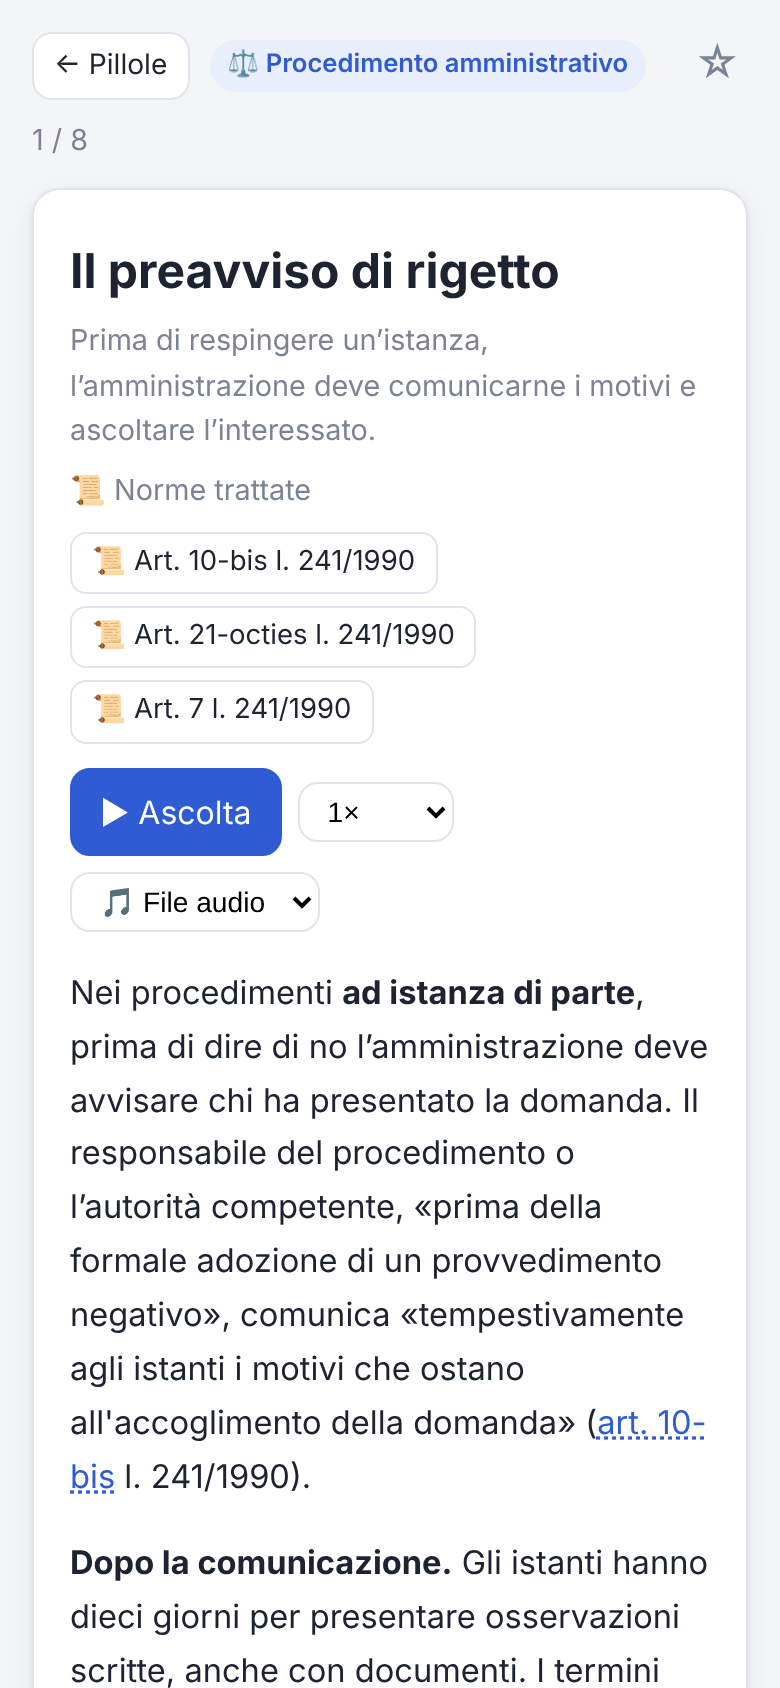
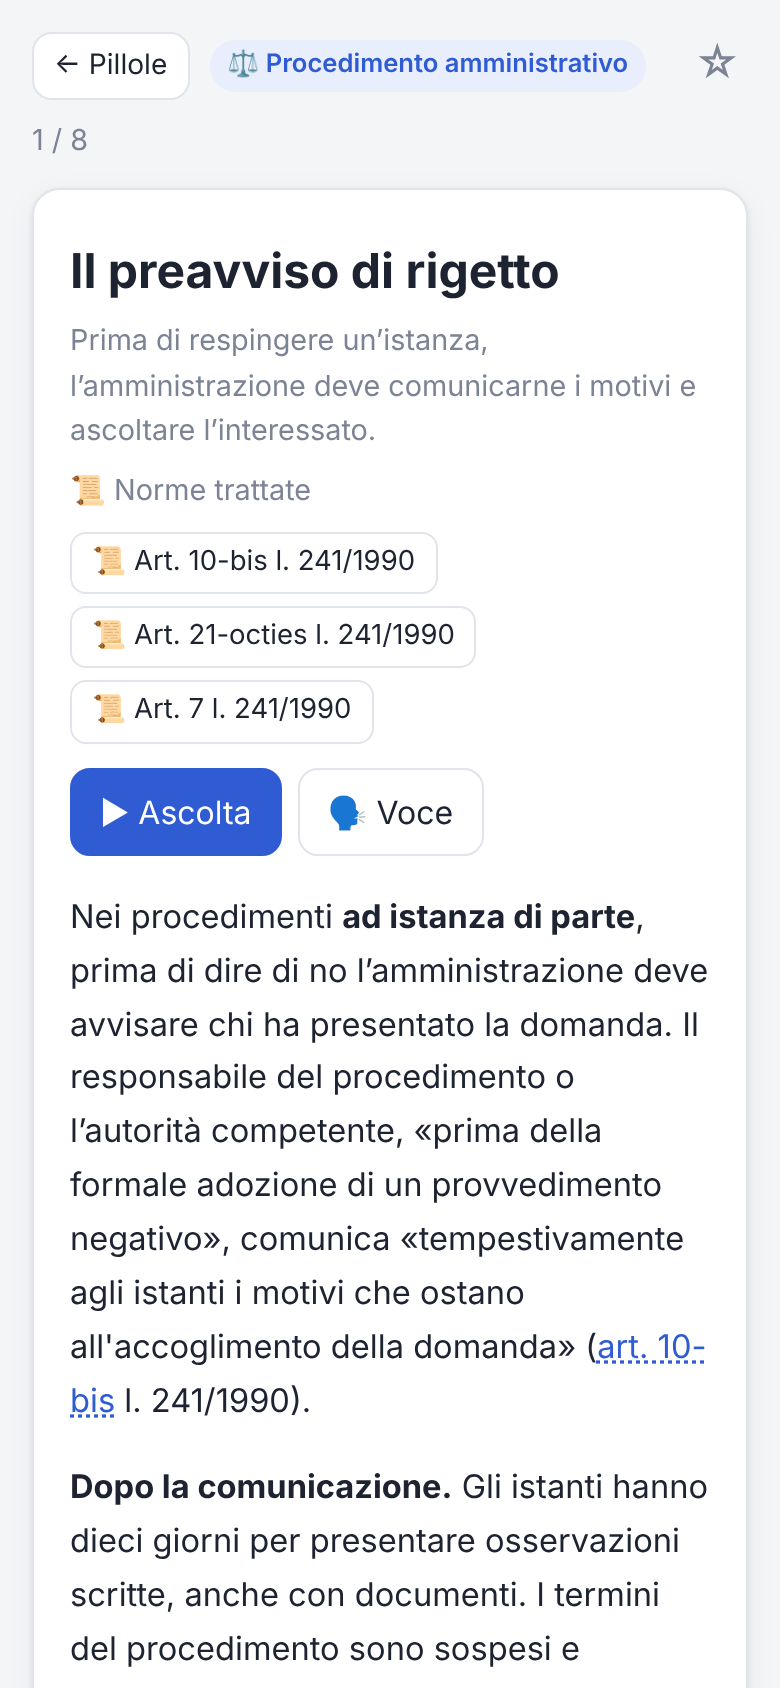
Pillole: voce in una finestra a parte; l'audio continua leggendo le norme
- al posto del riquadro sempre visibile, un pulsante «🗣 Voce» (pagina delle pillole e
  singola pillola) apre la finestra con voce, velocità e prova
- aprendo una norma da una pillola l'ascolto continua: la scheda mostra «⏸ <pillola>» per
  fermarlo; se la sessione passa alla pillola successiva si resta sulla norma, e «← Indietro»
  riporta alla pillola che sta suonando

Claude-Session: https://claude.ai/code/session_01LeeM76ntNkL2VMLBGJ9Dax

Changed region(s): [[0.0923, 0.5237, 0.8923, 1.0], [0.4, 0.4621, 0.5846, 0.4929]]

diff --git a/index.html b/index.html
@@ -218,10 +218,11 @@ details.atto summary{cursor:pointer}
 /* le sezioni stanno in più contenitori: quelli senza nulla di visibile non occupano spazio */
 .wrap:not(:has(> :not(.hidden))){display:none}
 .norma-testo ins,#nn-nota ins{background:var(--ok-soft);color:var(--ok);text-decoration:none;font-weight:600}
-.voce-bar{display:flex;gap:8px;align-items:center;flex-wrap:wrap;padding:12px 14px}
-.voce-bar select{max-width:100%}
-.voce-bar .muted{flex-basis:100%;font-size:.82rem}
-.voce-bar .muted:empty{display:none}
+.voce-modal{max-width:440px}
+.voce-modal .campo{display:grid;gap:5px;margin:14px 0;font-size:.9rem;color:var(--ink2)}
+.voce-modal select{width:100%;font-size:1rem}
+.voce-modal .muted{margin-top:12px;font-size:.84rem}
+.voce-modal .muted:empty{display:none}
 .sessione{border-color:var(--accent)}
 .sess-riga{display:grid;gap:4px;margin-bottom:10px}
 .sess-riga .aree{margin-bottom:0}
@@ -405,14 +406,7 @@ details.atto summary{cursor:pointer}
   <section id="pillole" class="hidden">
     <div class="row" style="margin-bottom:12px">
       <div><h1>Pillole normative</h1><div class="muted" id="p-sub"></div></div>
-      <span class="spacer"></span><button class="btn primary" id="p-sess-btn">🎧 Sessione di ascolto</button>
-    </div>
-    <div class="card voce-bar">
-      <b>🗣 Voce</b>
-      <select class="btn small" id="p-voce" title="Voce"></select>
-      <select class="btn small" id="p-vel" title="Velocità"><option value="0.85">0,85×</option><option value="1" selected>1×</option><option value="1.15">1,15×</option><option value="1.3">1,3×</option></select>
-      <button class="btn small" id="p-prova">▶ Prova</button>
-      <div class="muted" id="p-voce-nota"></div>
+      <span class="spacer"></span><button class="btn" id="p-voce-btn">🗣 Voce</button><button class="btn primary" id="p-sess-btn">🎧 Sessione di ascolto</button>
     </div>
     <div class="card hidden" id="p-riepilogo"></div>
     <div class="card hidden sessione" id="p-sess">
@@ -441,8 +435,7 @@ details.atto summary{cursor:pointer}
       <div class="player">
         <button class="btn primary" id="pp-play">▶ Ascolta</button>
         <button class="btn hidden" id="pp-cast" title="Trasmetti l’audio a un altoparlante Google Nest o Chromecast">📡 Trasmetti al Nest</button>
-        <select class="btn small" id="pp-vel" title="Velocità"><option value="0.85">0,85×</option><option value="1" selected>1×</option><option value="1.15">1,15×</option><option value="1.3">1,3×</option></select>
-        <select class="btn small" id="pp-voce" title="Voce"></select>
+        <button class="btn" id="pp-voce-btn">🗣 Voce</button>
         <span class="stato" id="pp-stato"></span>
       </div>
       <audio id="pp-audio" preload="none"></audio>
@@ -465,7 +458,7 @@ details.atto summary{cursor:pointer}
   </section>
 
   <section id="norma" class="hidden">
-    <div class="topbar"><button class="btn small" id="nn-indietro">← Indietro</button><span class="tag" id="nn-sigla"></span></div>
+    <div class="topbar"><button class="btn small" id="nn-indietro">← Indietro</button><span class="tag" id="nn-sigla"></span><span class="spacer"></span><button class="btn small hidden" id="nn-audio" title="Ferma l’ascolto">⏸ In ascolto</button></div>
     <div class="card">
       <h1 id="nn-titolo" style="margin-bottom:4px"></h1>
       <div class="muted" id="nn-fonte" style="margin-bottom:12px"></div>
@@ -484,6 +477,14 @@ details.atto summary{cursor:pointer}
   <button id="tab-pillole" data-tab="pillole"><span>🎧</span>Pillole</button>
   <button id="tab-norme" data-tab="norme"><span>📜</span>Norme</button>
 </nav>
+
+<div class="overlay hidden" id="voce-ov"><div class="modal voce-modal">
+  <div class="row"><b>🗣 Voce di lettura</b><span class="spacer"></span><button class="btn small" id="voce-chiudi">Chiudi</button></div>
+  <label class="campo">Voce<select class="btn" id="v-voce"></select></label>
+  <label class="campo">Velocità<select class="btn" id="v-vel"><option value="0.85">0,85×</option><option value="1" selected>1×</option><option value="1.15">1,15×</option><option value="1.3">1,3×</option></select></label>
+  <button class="btn primary" id="v-prova">▶ Prova</button>
+  <div class="muted" id="v-nota"></div>
+</div></div>
 
 <div class="overlay hidden" id="norma-ov"><div class="modal">
   <div class="row"><b id="norma-titolo"></b><span class="spacer"></span><button class="btn small" id="norma-chiudi">Chiudi</button></div>
@@ -1072,7 +1073,7 @@ document.addEventListener("click", e => {
   if (!c) return;
   e.preventDefault(); e.stopPropagation();
   const inPillola = !$("pillola").classList.contains("hidden");
-  if (inPillola && typeof apriScheda === "function" && NI[c.dataset.norma]) { const i = PL.i; apriScheda(c.dataset.norma, () => apriPillola(i)); }
+  if (inPillola && typeof apriScheda === "function" && NI[c.dataset.norma]) apriScheda(c.dataset.norma, tornaAllaPillola);
   else apriNorma(c.dataset.norma);
 }, true);
 function apriNorma(id) {
@@ -1193,8 +1194,8 @@ $("s-end").onclick = () => consegna(true);
 
 document.addEventListener("keydown", e => {
   if ((e.key === "Enter" || e.key === " ") && e.target.classList && e.target.classList.contains("cit")) { e.preventDefault(); apriNorma(e.target.dataset.norma); return; }
-  if (!$("norma-ov").classList.contains("hidden") || !$("zoom-ov").classList.contains("hidden")) {
-    if (e.key === "Escape") { $("norma-ov").classList.add("hidden"); $("zoom-ov").classList.add("hidden"); }
+  if (!$("norma-ov").classList.contains("hidden") || !$("zoom-ov").classList.contains("hidden") || !$("voce-ov").classList.contains("hidden")) {
+    if (e.key === "Escape") { $("norma-ov").classList.add("hidden"); $("zoom-ov").classList.add("hidden"); $("voce-chiudi").click(); }
     return;
   }
   if (!S || $("quiz").classList.contains("hidden") || e.ctrlKey || e.metaKey || e.altKey) return;
@@ -1281,7 +1282,6 @@ function renderPillole() {
   const lista = $("p-lista"); lista.innerHTML = "";
   for (const p of PILLOLE.filter(p => !PL.area || (PL.area === "*" ? daApprofondire(p.id) : p.area === PL.area))) lista.appendChild(vocePillola(p));
   $("p-altoparlanti-testo").innerHTML = istruzioniAltoparlanti();
-  renderVoci(); $("p-prova").textContent = "▶ Prova";
   const nAsc = PILLOLE.filter(p => pillolaAscoltata(p.id)).length;
   $("p-sub").textContent = PILLOLE.length + " pillole · " + nAsc + " ascoltate";
   show("pillole");
@@ -1421,7 +1421,7 @@ function renderFonti(p) {
     viste.add(id);
     const b = document.createElement("button");
     b.className = "norma-btn"; b.textContent = etichettaFonte({ tipo: f.tipo, id });
-    b.onclick = () => NI[id] ? apriScheda(id, () => apriPillola(i)) : apriNorma(id);
+    b.onclick = () => NI[id] ? apriScheda(id, tornaAllaPillola) : apriNorma(id);
     norme.appendChild(b);
   }
   $("pp-norme-box").classList.toggle("hidden", !viste.size);
@@ -1434,7 +1434,18 @@ function fermaAscolto() {
   if (window.speechSynthesis) speechSynthesis.cancel();
   voceTel = null;
   $("pp-play").textContent = "▶ Ascolta";
+  aggiornaMini();
 }
+// Leggendo una norma dalla pillola l'ascolto continua: la scheda mostra «⏸ In ascolto» per
+// fermarlo, e «← Indietro» riporta alla pillola che sta suonando.
+const pillolaVisibile = () => !$("pillola").classList.contains("hidden");
+function aggiornaMini() {
+  const b = $("nn-audio"); if (!b) return;
+  const on = typeof PL !== "undefined" && (!$("pp-audio").paused || (!!voceTel && !voceTel.prova));
+  b.classList.toggle("hidden", !on);
+  if (on) b.textContent = "⏸ " + PILLOLE[PL.i].titolo;
+}
+function tornaAllaPillola() { return apriPillola(PL.i, false, true); }
 // ── Voce: quella del telefono (su iPhone le voci italiane di Siri) oppure il file audio ──
 // DB.voce: "" = la migliore voce italiana del telefono, nome di una voce, oppure "file".
 // Su iPhone la stessa voce esiste in più versioni con lo stesso nome («Alice» normale, avanzata,
@@ -1454,31 +1465,40 @@ function voceScelta() { const v = vociIt(); return v.find(x => idVoce(x) === DB.
 // i due menu (pagina delle pillole e singola pillola) mostrano la stessa scelta
 function renderVoci() {
   const v = vociIt();
-  for (const sel of [$("pp-voce"), $("p-voce")]) {
+  for (const sel of [$("v-voce")]) {
     sel.innerHTML = v.map(x => "<option value='" + esc(idVoce(x)) + "'>" + esc(x.name.replace(/\s*\(.*?\)\s*$/, "") + ETICHETTA_Q[qualita(x)]) + "</option>").join("") +
       "<option value='file'>🎵 File audio</option>";
     sel.value = usaFile() ? "file" : idVoce(voceScelta() || {});
   }
-  for (const sel of [$("pp-vel"), $("p-vel")]) sel.value = String(DB.vel || 1);
-  $("p-voce-nota").textContent = !vociIt().length ? "Nessuna voce italiana disponibile in questo browser: si usano i file audio." :
+  $("v-vel").value = String(DB.vel || 1);
+  $("v-nota").textContent = !vociIt().length ? "Nessuna voce italiana disponibile in questo browser: si usano i file audio." :
     vociIt().some(x => qualita(x)) ? "" : "Per una voce più naturale scarica una voce «Avanzata» o «Premium»: Impostazioni → Accessibilità → Lettura e voce → Voci → Italiano. Poi chiudi e riapri l’app.";
   $("pp-cast").classList.toggle("hidden", !usaFile() || $("pp-cast").dataset.ok !== "1");
 }
 function scegliVoce(valore) { const suonava = inRiproduzione(); fermaAscolto(); DB.voce = valore; salva(); renderVoci(); if (suonava && !$("pillola").classList.contains("hidden")) ascolta(); }
 function scegliVelocita(valore) { DB.vel = +valore; salva(); $("pp-audio").playbackRate = DB.vel; renderVoci(); }
 // «▶ Prova»: una frase con la voce scelta (o l'inizio del file audio della pillola del giorno)
+let provaAudio = null;
+function fermaProva() {
+  if (provaAudio) { provaAudio.pause(); provaAudio = null; }
+  if (voceTel && voceTel.prova) { speechSynthesis.cancel(); voceTel = null; }
+  $("v-prova").textContent = "▶ Prova";
+}
 function provaVoce() {
-  if (inRiproduzione()) { fermaAscolto(); $("p-prova").textContent = "▶ Prova"; return; }
+  if (provaAudio || (voceTel && voceTel.prova)) return fermaProva();
+  fermaAscolto();
   const p = PILLOLE[pillolaDelGiorno()];
   if (usaFile()) {
-    const au = $("pp-audio"); au.src = "pillole/audio/" + p.id + ".mp3"; au.playbackRate = DB.vel || 1;
-    au.play().catch(() => {}); setTimeout(() => { if (!au.paused) au.pause(); }, 8000); return;
+    provaAudio = new Audio("pillole/audio/" + p.id + ".mp3"); provaAudio.playbackRate = DB.vel || 1;
+    provaAudio.play().catch(() => {}); $("v-prova").textContent = "■ Ferma";
+    setTimeout(fermaProva, 8000); return;
   }
   const u = new SpeechSynthesisUtterance("Questa è la voce che leggerà le pillole. " + p.parlato.split(". ").slice(0, 2).join(". ") + ".");
   u.lang = "it-IT"; u.rate = DB.vel || 1;
   const v = voceScelta(); if (v) u.voice = v;
-  u.onend = u.onerror = () => { if (voceTel === u) { voceTel = null; $("p-prova").textContent = "▶ Prova"; } };
-  speechSynthesis.cancel(); voceTel = u; $("p-prova").textContent = "■ Ferma";
+  u.prova = true;
+  u.onend = u.onerror = () => { if (voceTel === u) { voceTel = null; $("v-prova").textContent = "▶ Prova"; } };
+  speechSynthesis.cancel(); voceTel = u; $("v-prova").textContent = "■ Ferma";
   speechSynthesis.speak(u);
 }
 function inRiproduzione() { return !$("pp-audio").paused || !!voceTel; }
@@ -1506,6 +1526,7 @@ function parlaTelefono(p) {
 }
 function finePillola() {
   $("pp-play").textContent = "▶ Ascolta";
+  aggiornaMini();
   DB.ascoltate = DB.ascoltate || {}; DB.ascoltate[PILLOLE[PL.i].id] = Date.now(); salva();
   const ss = PL.sess;
   if (!ss) return;
@@ -1528,6 +1549,7 @@ function suona(i) {
     });
   } else parlaTelefono(p);
   $("pp-play").textContent = "⏸ Pausa";
+  if (!$("norma").classList.contains("hidden")) { aggiornaMini(); return Promise.resolve(); }   // si sta leggendo una norma: resta lì
   return apriPillola(i, false, true);
 }
 // ── Sessione di ascolto ──
@@ -1585,6 +1607,7 @@ function avviaSessione() {
 function fineSessione() {
   const ss = PL.sess;
   fermaAscolto();
+  if (!pillolaVisibile() && !$("norma").classList.contains("hidden")) { PL.sess = null; return; }   // non lasciare la norma che si sta leggendo
   renderPillole();   // azzera PL.sess
   const fatte = ss ? ss.fatte : [], box = $("p-riepilogo");
   box.innerHTML = "<h2>" + (fatte.length === ss.coda.length ? "✔ Sessione completata" : "Sessione interrotta") + "</h2><div class='muted'>" +
@@ -1628,19 +1651,24 @@ async function trasmetti() {
 if (HAS_PILLOLE) {
   const au = $("pp-audio");
   au.onended = finePillola;
-  au.onpause = () => { if (!voceTel) $("pp-play").textContent = "▶ Ascolta"; };
-  au.onplay = () => { $("pp-play").textContent = "⏸ Pausa"; };
+  au.onpause = () => { if (!voceTel) $("pp-play").textContent = "▶ Ascolta"; aggiornaMini(); };
+  au.onplay = () => { $("pp-play").textContent = "⏸ Pausa"; aggiornaMini(); };
   au.onerror = () => { if (!au.src || au.dataset.ko === au.src) return; au.dataset.ko = au.src; if ($("pp-play").textContent.startsWith("⏸")) parlaTelefono(PILLOLE[PL.i]); };
   if (au.remote) { au.remote.onconnect = () => { $("pp-stato").textContent = "📡 In trasmissione sull’altoparlante"; }; au.remote.ondisconnect = () => { $("pp-stato").textContent = ""; }; }
   $("pp-play").onclick = ascolta;
   $("pp-cast").onclick = trasmetti;
   $("pp-star").onclick = toggleDaApprofondire;
   $("pp-prova").onclick = provaPillola;
-  $("pp-vel").onchange = () => scegliVelocita($("pp-vel").value);
-  $("p-vel").onchange = () => scegliVelocita($("p-vel").value);
-  $("p-voce").onchange = () => scegliVoce($("p-voce").value);
-  $("p-prova").onclick = provaVoce;
-  $("pp-voce").onchange = () => scegliVoce($("pp-voce").value);
+  // impostazioni della voce: una finestra che si apre dal pulsante «🗣 Voce»
+  const apriVoce = () => { renderVoci(); $("v-prova").textContent = "▶ Prova"; $("voce-ov").classList.remove("hidden"); };
+  const chiudiVoce = () => { fermaProva(); $("voce-ov").classList.add("hidden"); };
+  $("p-voce-btn").onclick = apriVoce; $("pp-voce-btn").onclick = apriVoce;
+  $("voce-chiudi").onclick = chiudiVoce;
+  $("voce-ov").onclick = e => { if (e.target.id === "voce-ov") chiudiVoce(); };
+  $("v-voce").onchange = () => scegliVoce($("v-voce").value);
+  $("v-vel").onchange = () => scegliVelocita($("v-vel").value);
+  $("v-prova").onclick = provaVoce;
+  $("nn-audio").onclick = () => { fermaAscolto(); aggiornaMini(); };
   if (window.speechSynthesis) speechSynthesis.addEventListener("voiceschanged", () => { renderVoci(); });
   $("pp-prec").onclick = () => PL.sess ? vaiInSessione(-1) : apriPillola(PL.i - 1);
   $("pp-succ").onclick = () => PL.sess ? vaiInSessione(1) : apriPillola(PL.i + 1);
@@ -1730,7 +1758,6 @@ async function renderListaNorme() {
 }
 // Scheda di un articolo. ritorno: dove riporta «← Indietro».
 async function apriScheda(id, ritorno) {
-  fermaAscoltoSePillole();
   const base = baseNorma(id), vs = versioni(base);
   if (!vs.length) return apriNorma(id);
   if (ritorno) NN.ritorno = ritorno;
@@ -1750,6 +1777,7 @@ async function apriScheda(id, ritorno) {
   $("nn-quiz-txt").textContent = dd.length + (dd.length === 1 ? " domanda delle prove SNA cita" : " domande delle prove SNA citano") + " questo articolo.";
   if (location.hash !== "#norma=" + base) history.replaceState(null, "", "#norma=" + base);
   show("norma");
+  if (typeof aggiornaMini === "function" && HAS_PILLOLE) aggiornaMini();
 }
 function renderVersione() {
   const vs = versioni(NN.id), vista = NN.vista, chips = $("nn-versioni");
